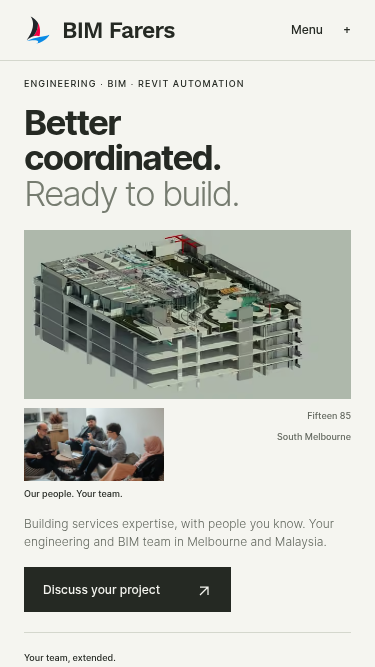
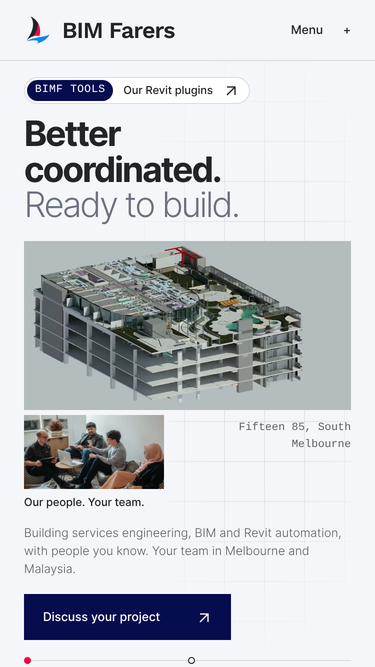
Align colours with the Canva brand and regenerate review previews
- Replace the sage and warm-paper palette with colours sampled from the
  Canva logo and proposal designs: navy #060d4e, charcoal #212529,
  azure #0a8ae6, crimson #f40042 and the periwinkle proposal ribbon
- Recreate the proposal line ribbon as a generated SVG behind the
  enquiry bands, dimmed behind the copy
- Charcoal surface for the developer section so it stays distinct
  from the navy enquiry band below it
- Proposal-style social card; remove unused tools-feature and
  button.light rules
- Add scripts/make_previews.py and regenerate desktop, phone,
  full-page and palette previews

All text colour pairs pass WCAG AA.

Claude-Session: https://claude.ai/code/session_01LdHNwgSD5U9L6f22A2D2Sw

diff --git a/css/site.css b/css/site.css
@@ -3,11 +3,11 @@
 @font-face{font-family:Inter;src:url('../fonts/inter-web-500.woff2') format('woff2');font-style:normal;font-weight:500;font-display:swap}
 @font-face{font-family:Inter;src:url('../fonts/inter-web-700.woff2') format('woff2');font-style:normal;font-weight:700;font-display:swap}
[1 lines of base64/hex data omitted]
-:root{--paper:#f5f5f0;--ink:#252923;--muted:#63685f;--line:#d4d7cd;--accent:#b8d48b;--dark:#252c26;--live:#3d6b1f;--mono:ui-monospace,SFMono-Regular,'SF Mono',Menlo,Consolas,'Liberation Mono',monospace;--space:clamp(24px,4.2vw,72px);--ease:cubic-bezier(.2,.7,.2,1)}
+:root{--paper:#f5f6f9;--surface:#fff;--ink:#212529;--muted:#5a606b;--line:#d8dce4;--navy:#060d4e;--navy-2:#1a2380;--on-navy:#c3c7e3;--navy-line:rgba(195,199,227,.24);--azure:#0a8ae6;--azure-ink:#0868b8;--azure-tint:#dcecfb;--crimson:#f40042;--charcoal:#16191e;--live:var(--azure-ink);--mono:ui-monospace,SFMono-Regular,'SF Mono',Menlo,Consolas,'Liberation Mono',monospace;--space:clamp(24px,4.2vw,72px);--ease:cubic-bezier(.2,.7,.2,1)}
 *,*::before,*::after{box-sizing:border-box}
 html{scroll-padding-top:100px}
 body{margin:0;background:var(--paper);color:var(--ink);font:300 15px/1.6 Inter,Arial,sans-serif;-webkit-font-smoothing:antialiased}
-::selection{background:var(--accent);color:var(--ink)}
+::selection{background:var(--azure-tint);color:var(--ink)}
 a{color:inherit;text-decoration:none;text-underline-offset:5px}
 button{font:inherit;color:inherit;cursor:pointer}
 img{display:block;max-width:100%;height:auto}
@@ -20,7 +20,7 @@ h1{font-size:clamp(42px,6.5vw,104px)}
 h2{font-size:clamp(34px,4.1vw,64px)}
 h3{font-size:clamp(24px,2.5vw,36px);letter-spacing:-.04em}
 address{font-style:normal}
-:focus-visible{outline:2px solid #487027;outline-offset:6px}
+:focus-visible{outline:2px solid var(--azure);outline-offset:6px}
 [tabindex="-1"]:focus{outline:none}
 .wrap{width:calc(100% - var(--space)*2);max-width:1600px;margin-inline:auto}
 .section{padding-block:clamp(64px,8vw,128px)}
@@ -31,14 +31,12 @@ address{font-style:normal}
 .text-link{display:inline-flex;gap:32px;align-items:center;border-bottom:1px solid currentColor;padding-bottom:6px;font-size:13px;font-weight:500}
 .text-link span,.button span,.nav-contact span{display:inline-block;transition:transform 180ms var(--ease)}
 .text-link:hover span,.button:hover span,.nav-contact:hover span{transform:translate(3px,-3px)}
-.button{min-height:50px;display:inline-flex;justify-content:space-between;align-items:center;gap:40px;padding:16px 22px;background:var(--ink);color:var(--paper);font-size:13px;font-weight:500;border:1px solid var(--ink);transition:background-color 180ms,color 180ms}
-.button:hover{background:#414a3d}
-.button.light{background:var(--accent);border-color:var(--accent);color:var(--ink)}
-.button.light:hover{background:#d0e4b0}
+.button{min-height:50px;display:inline-flex;justify-content:space-between;align-items:center;gap:40px;padding:16px 22px;background:var(--navy);color:#fff;font-size:13px;font-weight:500;border:1px solid var(--navy);transition:background-color 180ms,color 180ms}
+.button:hover{background:var(--navy-2);border-color:var(--navy-2)}
 .skip-link{position:absolute;left:24px;top:-100px;z-index:10;background:var(--paper);padding:12px}
 .skip-link:focus{top:12px}
 .site-header{border-bottom:1px solid var(--line);position:sticky;top:0;z-index:5;background:var(--paper)}
-@supports ((-webkit-backdrop-filter:blur(1px)) or (backdrop-filter:blur(1px))){.site-header{background:rgba(245,245,240,.86);-webkit-backdrop-filter:saturate(1.4) blur(14px);backdrop-filter:saturate(1.4) blur(14px)}}
+@supports ((-webkit-backdrop-filter:blur(1px)) or (backdrop-filter:blur(1px))){.site-header{background:rgba(245,246,249,.86);-webkit-backdrop-filter:saturate(1.4) blur(14px);backdrop-filter:saturate(1.4) blur(14px)}}
 .header-inner{min-height:80px;display:flex;flex-wrap:wrap;align-items:center;justify-content:space-between;gap:32px}
 .brand{display:inline-flex;flex-shrink:0;align-items:center;gap:10px;font:600 24px/1 'Work Sans Brand',Inter,Arial,sans-serif;letter-spacing:-.035em;white-space:nowrap}
 .navigation{display:flex;flex-wrap:wrap;gap:clamp(20px,2.4vw,38px);align-items:center;font-size:12px;font-weight:500}
@@ -51,22 +49,22 @@ address{font-style:normal}
 .menu-toggle span{transition:transform 180ms var(--ease)}
 .menu-open .menu-toggle span{transform:rotate(45deg)}
 .hero{position:relative;isolation:isolate;display:grid;grid-template-columns:minmax(0,1fr) minmax(0,1.38fr);gap:clamp(32px,5vw,84px);align-items:center;min-height:calc(100svh - 146px);padding-block:44px 60px}
-.hero::before{content:'';position:absolute;inset:0;z-index:-1;pointer-events:none;background:linear-gradient(rgba(37,41,35,.07) 1px,transparent 1px) 0 0/40px 40px,linear-gradient(90deg,rgba(37,41,35,.07) 1px,transparent 1px) 0 0/40px 40px;-webkit-mask-image:radial-gradient(ellipse 60% 70% at 72% 48%,#000 30%,transparent 75%);mask-image:radial-gradient(ellipse 60% 70% at 72% 48%,#000 30%,transparent 75%)}
+.hero::before{content:'';position:absolute;inset:0;z-index:-1;pointer-events:none;background:linear-gradient(rgba(6,13,78,.075) 1px,transparent 1px) 0 0/40px 40px,linear-gradient(90deg,rgba(6,13,78,.075) 1px,transparent 1px) 0 0/40px 40px;-webkit-mask-image:radial-gradient(ellipse 60% 70% at 72% 48%,#000 30%,transparent 75%);mask-image:radial-gradient(ellipse 60% 70% at 72% 48%,#000 30%,transparent 75%)}
 .hero-copy{min-width:0}
-.pill{display:inline-flex;align-items:center;gap:12px;margin-bottom:28px;padding:4px 12px 4px 4px;border:1px solid var(--line);border-radius:999px;background:#fbfbf8;font-size:12px;font-weight:500;transition:border-color 180ms}
+.pill{display:inline-flex;align-items:center;gap:12px;margin-bottom:28px;padding:4px 12px 4px 4px;border:1px solid var(--line);border-radius:999px;background:var(--surface);font-size:12px;font-weight:500;transition:border-color 180ms}
 .pill:hover{border-color:var(--ink)}
-.pill-tag{font:500 11px/1 var(--mono);text-transform:uppercase;letter-spacing:.04em;padding:6px 9px;border-radius:999px;background:var(--ink);color:var(--paper)}
+.pill-tag{font:500 11px/1 var(--mono);text-transform:uppercase;letter-spacing:.04em;padding:6px 9px;border-radius:999px;background:var(--navy);color:#fff}
 .pill>span:last-child{display:inline-block;transition:transform 180ms var(--ease)}
 .pill:hover>span:last-child{transform:translate(3px,-3px)}
 .hero-title{font-size:clamp(48px,4.9vw,78px);font-weight:700;line-height:1.02;letter-spacing:-.05em;text-wrap:initial;overflow-wrap:anywhere}
-.hero-title .soft{color:#767c70;font-weight:300;letter-spacing:-.055em}
+.hero-title .soft{color:#6b7180;font-weight:300;letter-spacing:-.055em}
 .hero-intro{font-size:16px;max-width:420px;color:var(--muted);margin-top:28px;line-height:1.65}
 .hero-actions{display:flex;flex-wrap:wrap;align-items:center;gap:20px 32px;margin-top:28px}
 .hero-copy .button{gap:36px;font-size:12px;min-height:52px}
 .hero-visual{position:relative;padding-bottom:75px;min-width:0}
 .hero-model{margin-top:8px}
-.model-frame{display:block;position:relative;background:#d6dbd3}
-.model-frame::after{content:'';position:absolute;inset:-9px;pointer-events:none;--m:linear-gradient(var(--ink),var(--ink));background:var(--m) 0 0/14px 1px,var(--m) 0 0/1px 14px,var(--m) 100% 0/14px 1px,var(--m) 100% 0/1px 14px,var(--m) 0 100%/14px 1px,var(--m) 0 100%/1px 14px,var(--m) 100% 100%/14px 1px,var(--m) 100% 100%/1px 14px;background-repeat:no-repeat}
+.model-frame{display:block;position:relative;background:#dde1e9}
+.model-frame::after{content:'';position:absolute;inset:-9px;pointer-events:none;--m:linear-gradient(var(--navy),var(--navy));background:var(--m) 0 0/14px 1px,var(--m) 0 0/1px 14px,var(--m) 100% 0/14px 1px,var(--m) 100% 0/1px 14px,var(--m) 0 100%/14px 1px,var(--m) 0 100%/1px 14px,var(--m) 100% 100%/14px 1px,var(--m) 100% 100%/1px 14px;background-repeat:no-repeat}
 .model-frame>img{width:100%;aspect-ratio:1.58;object-fit:cover;mix-blend-mode:multiply}
 .model-caption{display:flex;justify-content:flex-end;gap:24px;font:500 11px/1.5 var(--mono);padding-top:14px;color:var(--muted)}
 .hero-people{position:absolute;width:44%;left:-9%;bottom:6px;padding:7px 7px 0;background:var(--paper)}
@@ -77,27 +75,27 @@ address{font-style:normal}
 .pipeline{list-style:none;margin-block:0;padding:0;display:grid;grid-template-columns:repeat(4,minmax(0,1fr));border-bottom:1px solid var(--line)}
 .pipeline li{position:relative;display:flex;gap:14px;overflow-wrap:anywhere;min-width:0;align-items:baseline;padding:24px 16px 22px 0;border-top:1px solid var(--line);font-size:13px;font-weight:500}
 .pipeline li::before{content:'';position:absolute;left:0;top:-4px;width:7px;height:7px;border:1px solid var(--ink);border-radius:50%;background:var(--paper)}
-.pipeline li:first-child::before{background:var(--ink)}
+.pipeline li:first-child::before{background:var(--crimson);border-color:var(--crimson)}
 .pipeline span{font:500 11px var(--mono);color:var(--muted)}
 .project-grid{display:grid;grid-template-columns:repeat(3,minmax(0,1fr));gap:40px 24px}
-.project-image{overflow:hidden;background:#e2e4dd}
+.project-image{overflow:hidden;background:#e3e6ed}
 .project-image img{width:100%;aspect-ratio:4/5;object-fit:cover;transition:transform 280ms var(--ease)}
 @media(hover:hover){.project-card:hover img{transform:scale(1.025)}}
 .project-card figcaption{display:flex;gap:12px;justify-content:space-between;border-top:1px solid var(--ink);padding-top:16px;margin-top:16px;align-items:baseline}
 .project-card h3{font-size:18px;letter-spacing:-.04em}
 .project-card .eyebrow{color:var(--muted)}
 .project-note{border-bottom:1px solid var(--line);padding-block:28px;color:var(--muted);max-width:850px;font-size:12px}
-.expertise-section{background:var(--dark);color:var(--paper)}
-.expertise-section .section-heading>div>p{color:#c1c8ba}
-.service-list{border-top:1px solid #586052}
-.service-row{display:grid;grid-template-columns:1fr 1.2fr 1.2fr;gap:32px;padding-block:32px;border-bottom:1px solid #586052}
-.service-row .eyebrow{color:var(--accent)}
-.service-row p:last-child{color:#c1c8ba;font-size:14px;max-width:400px}
+.expertise-section{background:var(--navy);color:#fff}
+.expertise-section .section-heading>div>p{color:var(--on-navy)}
+.service-list{border-top:1px solid var(--navy-line)}
+.service-row{display:grid;grid-template-columns:1fr 1.2fr 1.2fr;gap:32px;padding-block:32px;border-bottom:1px solid var(--navy-line)}
+.service-row .eyebrow{color:var(--azure)}
+.service-row p:last-child{color:var(--on-navy);font-size:14px;max-width:400px}
 .expertise-bottom{display:grid;grid-template-columns:1fr 2.4fr;gap:32px;margin-top:56px}
 .expertise-bottom>div{display:flex;gap:32px;align-items:flex-start;justify-content:space-between}
-.expertise-bottom p{font-size:13px;color:#c1c8ba;max-width:440px}
+.expertise-bottom p{font-size:13px;color:var(--on-navy);max-width:440px}
 .stack{list-style:none;margin:0 0 16px;padding:0;display:flex;flex-wrap:wrap;gap:8px}
-.stack li{font:500 11px/1 var(--mono);padding:8px 10px;border:1px solid #586052;color:var(--paper)}
+.stack li{font:500 11px/1 var(--mono);padding:8px 10px;border:1px solid var(--navy-line);color:var(--paper)}
 .engagement-grid{display:grid;grid-template-columns:repeat(3,minmax(0,1fr));gap:32px}
 .engagement{border-top:1px solid var(--ink);padding-top:20px}
 .engagement h3{margin-block:32px 20px}
@@ -118,13 +116,19 @@ address{font-style:normal}
 .journal-card .eyebrow{display:flex;flex-wrap:wrap;justify-content:space-between;gap:12px}
 .journal-card .read{display:inline-block;margin-top:28px;border-bottom:1px solid currentColor;padding-bottom:4px;font-size:12px}
 .journal-card:hover .read{text-decoration:underline}
-.contact-section{background:var(--accent);padding-block:clamp(60px,7vw,112px)}
+.contact-section{position:relative;isolation:isolate;background:var(--navy);color:#fff;padding-block:clamp(60px,7vw,112px)}
+/* Proposal ribbon (scripts/make_waves.py), dimmed behind the copy column. */
+.contact-section::before{content:'';position:absolute;inset:0;z-index:-1;pointer-events:none;background:url('../assets/waves.svg') 60% 55%/max(1600px,140%) auto no-repeat;-webkit-mask-image:linear-gradient(90deg,#000 20%,rgba(0,0,0,.2) 33%,rgba(0,0,0,.2) 76%,#000 90%);mask-image:linear-gradient(90deg,#000 20%,rgba(0,0,0,.2) 33%,rgba(0,0,0,.2) 76%,#000 90%)}
+.contact-section .eyebrow{color:var(--azure)}
+.contact-grid p{color:var(--on-navy)}
+.contact-section .button{background:#fff;border-color:#fff;color:var(--navy)}
+.contact-section .button:hover{background:var(--azure-tint);border-color:var(--azure-tint)}
 .contact-grid{display:grid;grid-template-columns:1fr 2fr;gap:32px}
 .contact-grid h2{font-size:clamp(40px,6vw,88px);max-width:850px}
 .contact-grid p{max-width:510px;margin-top:24px}
 .contact-grid .button{margin-top:32px}
-.brief-list{list-style:none;padding:0;margin:28px 0 0;max-width:510px;border-top:1px solid rgba(37,41,35,.3)}
-.brief-list li{display:flex;gap:12px;padding:10px 0;border-bottom:1px solid rgba(37,41,35,.3);font:500 12px/1.5 var(--mono)}
+.brief-list{list-style:none;padding:0;margin:28px 0 0;max-width:510px;border-top:1px solid var(--navy-line)}
+.brief-list li{display:flex;gap:12px;padding:10px 0;border-bottom:1px solid var(--navy-line);font:500 12px/1.5 var(--mono)}
 .brief-list li::before{content:'+'}
 .contact-alt{display:flex;flex-wrap:wrap;gap:8px 28px;font-size:13px}
 .contact-alt a{text-decoration:underline;overflow-wrap:anywhere}
@@ -152,10 +156,6 @@ address{font-style:normal}
 .location h3{margin-bottom:20px;font-size:26px}
 .location p,.location address{font-size:13px;color:var(--muted)}
 .location .text-link{font-size:12px;gap:16px;margin-top:24px}
-.tools-feature{display:grid;grid-template-columns:1fr 1.5fr;gap:64px;align-items:center}
-.tools-feature .tool-image{background:#e5e7e0;padding:28px}
-.tools-feature h2{margin-block:24px}
-.tools-feature .button{margin-top:32px}
 .tools-note{font-size:12px;color:var(--muted);margin-top:20px}
 .simple-page{max-width:900px;min-height:55vh;margin-inline:auto;padding-block:96px}
 .simple-page h1{margin-block:24px}
@@ -174,7 +174,7 @@ address{font-style:normal}
 .article-body figcaption,.article-body .blockquote-footer{color:var(--muted);font-size:12px;line-height:1.6;margin-top:12px}
 .article-body blockquote{font-size:28px;line-height:1.4;letter-spacing:-.03em;border-left:2px solid var(--ink);padding-left:24px;margin:32px 0}
 .article-body a{text-decoration:underline}
-.article-body mark{background:#e4ebd7;color:inherit;padding:2px}
+.article-body mark{background:var(--azure-tint);color:inherit;padding:2px}
 .article-body ul,.article-body ol{padding-left:24px}
 .article-body li{margin-bottom:12px}
 .article-body ul ul{margin-top:12px}
@@ -188,7 +188,7 @@ address{font-style:normal}
 .product-meta .eyebrow{color:var(--muted)}
 .code-glyph{display:grid;place-items:center;border:1px dashed var(--muted);font:500 16px var(--mono)}
 .product-grid{display:grid;grid-template-columns:repeat(3,minmax(0,1fr));gap:24px}
-.product-card{display:flex;flex-direction:column;padding:24px;border:1px solid var(--line);background:#fbfbf8;transition:border-color 180ms}
+.product-card{display:flex;flex-direction:column;padding:24px;border:1px solid var(--line);background:var(--surface);transition:border-color 180ms}
 .product-card:hover{border-color:var(--ink)}
 .product-card .product-meta{justify-content:space-between;margin-bottom:40px}
 .product-card h3{font-size:26px;margin-block:14px 12px}
@@ -203,28 +203,28 @@ address{font-style:normal}
 .spec-list li{display:grid;grid-template-columns:110px 1fr;gap:20px;padding-block:14px;border-bottom:1px solid var(--line);font-size:14px}
 .spec-list span{font:500 11px/1.9 var(--mono);text-transform:uppercase;color:var(--muted)}
 .product-visual{position:relative;padding-bottom:120px;min-width:0}
-.app-window{border:1px solid var(--line);background:#fff;box-shadow:0 30px 60px -30px rgba(37,41,35,.35)}
+.app-window{border:1px solid var(--line);background:var(--surface);box-shadow:0 30px 60px -30px rgba(6,13,78,.28)}
 .app-bar{display:flex;align-items:center;gap:14px;padding:10px 14px;border-bottom:1px solid var(--line);font:500 11px/1.4 var(--mono);color:var(--muted);overflow:hidden;white-space:nowrap;text-overflow:ellipsis}
-.app-dots{flex-shrink:0;width:38px;height:8px;background:radial-gradient(circle,#d4d7cd 3.5px,transparent 4px) 0 0/13px 8px repeat-x}
+.app-dots{flex-shrink:0;width:38px;height:8px;background:radial-gradient(circle,var(--line) 3.5px,transparent 4px) 0 0/13px 8px repeat-x}
 .line-drawing{position:absolute;right:6%;bottom:0;width:32%;padding:12px 12px 10px;background:var(--paper);border:1px solid var(--line)}
 .line-drawing img{width:100%;mix-blend-mode:multiply}
 .line-drawing figcaption{font:500 11px/1.4 var(--mono);color:var(--muted);padding-top:8px}
 .product-next{display:grid;grid-template-columns:minmax(0,1fr) minmax(0,1.3fr);gap:clamp(40px,6vw,96px);border-top:1px solid var(--line);align-items:start}
 .product-next h2{margin-bottom:24px}
 .product-next .muted{max-width:560px}
-.dev-section{background:var(--dark);color:var(--paper)}
-.dev-section .eyebrow{color:var(--accent)}
+.dev-section{background:var(--charcoal);color:#fff}
+.dev-section .eyebrow{color:var(--azure)}
 .dev-grid{display:grid;grid-template-columns:minmax(0,1fr) minmax(0,1.15fr);gap:clamp(40px,6vw,96px);align-items:center}
 .dev-grid h2{margin-block:24px}
-.dev-grid p:not(.eyebrow){color:#c1c8ba;max-width:520px}
+.dev-grid p:not(.eyebrow){color:#a6acb6;max-width:520px}
 .adn-badge{width:200px;margin-top:36px}
-.code-panel{border:1px solid #3c4439;background:#1c211d;min-width:0}
-.code-panel figcaption{display:flex;flex-wrap:wrap;justify-content:space-between;gap:16px;padding:12px 18px;border-bottom:1px solid #3c4439;font:500 11px/1.4 var(--mono);color:#9aa394}
-.code-panel pre{margin:0;padding:24px 18px 28px;overflow-x:auto;font:400 13px/1.75 var(--mono);color:#e8ebe2;tab-size:4}
-.code-panel .c{color:#9aa394}.code-panel .k{color:var(--accent)}.code-panel .t{color:#8fcfc4}
+.code-panel{border:1px solid #2b3038;background:#101317;min-width:0}
+.code-panel figcaption{display:flex;flex-wrap:wrap;justify-content:space-between;gap:16px;padding:12px 18px;border-bottom:1px solid #2b3038;font:500 11px/1.4 var(--mono);color:#9aa1ab}
+.code-panel pre{margin:0;padding:24px 18px 28px;overflow-x:auto;font:400 13px/1.75 var(--mono);color:#e6e8eb;tab-size:4}
+.code-panel .c{color:#8b929c}.code-panel .k{color:#4aa8f0}.code-panel .t{color:#ff6b93}
 .dev-steps{margin-top:clamp(56px,7vw,96px)}
-.dev-steps .engagement{border-color:#586052}
-.dev-steps .engagement p:last-child{color:#c1c8ba}
+.dev-steps .engagement{border-color:rgba(255,255,255,.16)}
+.dev-steps .engagement p:last-child{color:#a6acb6}
 .facts{display:grid;grid-template-columns:repeat(4,minmax(0,1fr));gap:24px;margin:48px 0 0}
 .facts div{border-top:1px solid var(--ink);padding-top:14px}
 .facts dt{font:500 11px/1.5 var(--mono);text-transform:uppercase;letter-spacing:.04em;color:var(--muted)}
@@ -232,16 +232,16 @@ address{font-style:normal}
 .credentials-label{color:var(--muted);margin:56px 0 16px}
 .journal-archive{padding-bottom:clamp(64px,8vw,128px)}
 .footer-wordmark{container-type:inline-size;overflow:hidden;padding-block:8px 18px;user-select:none}
-.footer-wordmark span{display:block;font:600 17.5vw/.78 'Work Sans Brand',Inter,Arial,sans-serif;font-size:21.2cqw;letter-spacing:-.06em;color:#e1e3da;white-space:nowrap}
+.footer-wordmark span{display:block;font:600 17.5vw/.78 'Work Sans Brand',Inter,Arial,sans-serif;font-size:21.2cqw;letter-spacing:-.06em;color:#e2e5ee;white-space:nowrap}
 @media(max-width:1000px){.product-grid{grid-template-columns:1fr 1fr}.product-card.is-custom{grid-column:1/-1}.product-feature,.product-next,.dev-grid{grid-template-columns:minmax(0,1fr)}.facts{grid-template-columns:1fr 1fr}}
-@media(max-width:760px){.product-grid{grid-template-columns:minmax(0,1fr)}.product-card .product-meta{margin-bottom:28px}.product-visual{padding-bottom:0}.line-drawing{position:relative;right:auto;width:52%;margin:-40px 16px 0 auto}.spec-list li{grid-template-columns:1fr;gap:4px}.code-panel pre{font-size:12px}.facts{grid-template-columns:repeat(2,minmax(0,1fr));gap:20px 16px}.facts dd{font-size:16px}}
+@media(max-width:760px){.contact-section::before{-webkit-mask-image:none;mask-image:none;opacity:.3}.product-grid{grid-template-columns:minmax(0,1fr)}.product-card .product-meta{margin-bottom:28px}.product-visual{padding-bottom:0}.line-drawing{position:relative;right:auto;width:52%;margin:-40px 16px 0 auto}.spec-list li{grid-template-columns:1fr;gap:4px}.code-panel pre{font-size:12px}.facts{grid-template-columns:repeat(2,minmax(0,1fr));gap:20px 16px}.facts dd{font-size:16px}}
 /* Only animate below-fold elements already visible in layout; never hide content. */
 @keyframes settle{from{transform:translateY(12px)}to{transform:translateY(0)}}
 .is-entering{animation:settle 320ms var(--ease) both}
 @media(max-width:1000px){
 .header-inner{gap:20px}.navigation{gap:18px}.navigation .nav-contact{margin-left:0}.brand{font-size:20px}
 .footer-grid{grid-template-columns:1.5fr 1fr;gap:40px}.expertise-bottom>div{flex-direction:column}
-.location{grid-template-columns:1fr}.tools-feature{gap:32px}
+.location{grid-template-columns:1fr}
 }
 @media(max-width:760px){
 .header-inner{min-height:68px;flex-wrap:wrap;gap:0;padding-block:10px}.brand{font-size:23px}
@@ -279,7 +279,7 @@ address{font-style:normal}
 .page-intro{padding-block:48px}.page-intro .intro-description{margin-left:0;font-size:16px}
 .people-grid{grid-template-columns:repeat(2,1fr);gap:32px 20px}.person h3{font-size:16px}
 .full-figure img{aspect-ratio:4/3}.location-grid{gap:32px}.credentials{gap:32px}.credentials img{height:44px}
-.tools-feature{grid-template-columns:1fr;gap:40px}.simple-page{padding-block:64px}
+.simple-page{padding-block:64px}
 .article-header{padding-top:48px}.article-body{font-size:16px}.article-body h2{font-size:28px}
 }
 @media(min-width:761px) and (max-width:1100px){.hero{gap:36px;grid-template-columns:minmax(0,1fr) minmax(0,1.25fr)}.hero-title{font-size:clamp(32px,4.9vw,52px)}.hero-people{left:0;width:46%}.hero-intro{font-size:14px}.desktop-break{display:none}}

diff --git a/1-building-information-modelling.html b/1-building-information-modelling.html
@@ -5,7 +5,7 @@
   <meta name="viewport" content="width=device-width, initial-scale=1">
   <link rel="stylesheet" href="/css/site.css">
   <meta name="description" content="Discover how Building Information Modelling (BIM) is revolutionizing the construction industry and what it means for tradies through this blog post.">
-  <meta name="theme-color" content="#f5f5f0">
+  <meta name="theme-color" content="#f5f6f9">
 
   <title>Building Information Modelling (BIM): The Future for Tradies | BIM Farers</title>
   <link rel="canonical" href="https://www.bimfarers.com.au/1-building-information-modelling">

diff --git a/3-construction-recap-2023.html b/3-construction-recap-2023.html
@@ -5,7 +5,7 @@
   <meta name="viewport" content="width=device-width, initial-scale=1">
   <link rel="stylesheet" href="/css/site.css">
   <meta name="description" content="This blog post recaps the construction industry of 2023 and explores the importance of construction digitalisation.">
-  <meta name="theme-color" content="#f5f5f0">
+  <meta name="theme-color" content="#f5f6f9">
 
   <title>2023 Recap of the Australian Construction Industry: Embracing Digital Transformation | BIM Farers</title>
   <link rel="canonical" href="https://www.bimfarers.com.au/3-construction-recap-2023">

diff --git a/2-built-to-rent.html b/2-built-to-rent.html
@@ -5,7 +5,7 @@
   <meta name="viewport" content="width=device-width, initial-scale=1">
   <link rel="stylesheet" href="/css/site.css">
   <meta name="description" content="This blog post introduces the trending Built-to-rent building model and outlines the design considerations for builders and contractors.">
-  <meta name="theme-color" content="#f5f5f0">
+  <meta name="theme-color" content="#f5f6f9">
 
   <title>Navigating The Built-to-rent Landscape: A Contractor&#x27;s Perspective | BIM Farers</title>
   <link rel="canonical" href="https://www.bimfarers.com.au/2-built-to-rent">

diff --git a/index.html b/index.html
@@ -5,7 +5,7 @@
   <meta name="viewport" content="width=device-width, initial-scale=1">
   <link rel="stylesheet" href="/css/site.css">
   <meta name="description" content="Engineering, BIM modelling, shop drawings and Revit automation for building services contractors. A connected team in Melbourne and Kuala Lumpur.">
-  <meta name="theme-color" content="#f5f5f0">
+  <meta name="theme-color" content="#f5f6f9">
 
   <title>BIM Farers | Engineering, BIM &amp; Revit Automation</title>
   <link rel="canonical" href="https://www.bimfarers.com.au/">

diff --git a/automation.html b/automation.html
@@ -5,7 +5,7 @@
   <meta name="viewport" content="width=device-width, initial-scale=1">
   <link rel="stylesheet" href="/css/site.css">
   <meta name="description" content="Explore BIM Farers Revit tools on the Autodesk App Store and discuss custom automation for your modelling and drafting workflows.">
-  <meta name="theme-color" content="#f5f5f0">
+  <meta name="theme-color" content="#f5f6f9">
 
   <title>Revit Tools &amp; Custom Automation | BIM Farers</title>
   <link rel="canonical" href="https://www.bimfarers.com.au/automation">

diff --git a/aboutus.html b/aboutus.html
@@ -5,7 +5,7 @@
   <meta name="viewport" content="width=device-width, initial-scale=1">
   <link rel="stylesheet" href="/css/site.css">
   <meta name="description" content="Meet the engineers, BIM modellers and software developers behind BIM Farers. Based in Melbourne, Australia and Kuala Lumpur, Malaysia.">
-  <meta name="theme-color" content="#f5f5f0">
+  <meta name="theme-color" content="#f5f6f9">
 
   <title>The Practice | BIM Farers</title>
   <link rel="canonical" href="https://www.bimfarers.com.au/aboutus">

diff --git a/privacypolicy-plugin.html b/privacypolicy-plugin.html
@@ -5,7 +5,7 @@
   <meta name="viewport" content="width=device-width, initial-scale=1">
   <link rel="stylesheet" href="/css/site.css">
   <meta name="description" content="Privacy policy for the BIMF Tools Autodesk Revit plugin. Effective 11 February 2024.">
-  <meta name="theme-color" content="#f5f5f0">
+  <meta name="theme-color" content="#f5f6f9">
 
   <title>BIMF Tools Privacy Policy | BIM Farers</title>
   <link rel="canonical" href="https://www.bimfarers.com.au/privacypolicy-plugin">

diff --git a/blog.html b/blog.html
@@ -5,7 +5,7 @@
   <meta name="viewport" content="width=device-width, initial-scale=1">
   <link rel="stylesheet" href="/css/site.css">
   <meta name="description" content="Perspectives from practice on building services engineering, BIM coordination and construction technology.">
-  <meta name="theme-color" content="#f5f5f0">
+  <meta name="theme-color" content="#f5f6f9">
 
   <title>Journal | BIM Farers</title>
   <link rel="canonical" href="https://www.bimfarers.com.au/blog">

diff --git a/paymentsuccess.html b/paymentsuccess.html
@@ -5,7 +5,7 @@
   <meta name="viewport" content="width=device-width, initial-scale=1">
   <link rel="stylesheet" href="/css/site.css">
   <meta name="description" content="Information about your BIM Farers plugin purchase and where to find your transaction details.">
-  <meta name="theme-color" content="#f5f5f0">
+  <meta name="theme-color" content="#f5f6f9">
   <meta name="robots" content="noindex">
   <title>Payment Return | BIM Farers</title>
 

diff --git a/404.html b/404.html
@@ -5,7 +5,7 @@
   <meta name="viewport" content="width=device-width, initial-scale=1">
   <link rel="stylesheet" href="/css/site.css">
   <meta name="description" content="The page you are looking for could not be found.">
-  <meta name="theme-color" content="#f5f5f0">
+  <meta name="theme-color" content="#f5f6f9">
   <meta name="robots" content="noindex">
   <title>Page Not Found | BIM Farers</title>
 

diff --git a/templates/page.html b/templates/page.html
@@ -5,7 +5,7 @@
   <meta name="viewport" content="width=device-width, initial-scale=1">
   <link rel="stylesheet" href="/css/site.css">
   <meta name="description" content="{{description}}">
-  <meta name="theme-color" content="#f5f5f0">
+  <meta name="theme-color" content="#f5f6f9">
   {{robots}}
   <title>{{title}}</title>
   {{canonical_link}}
